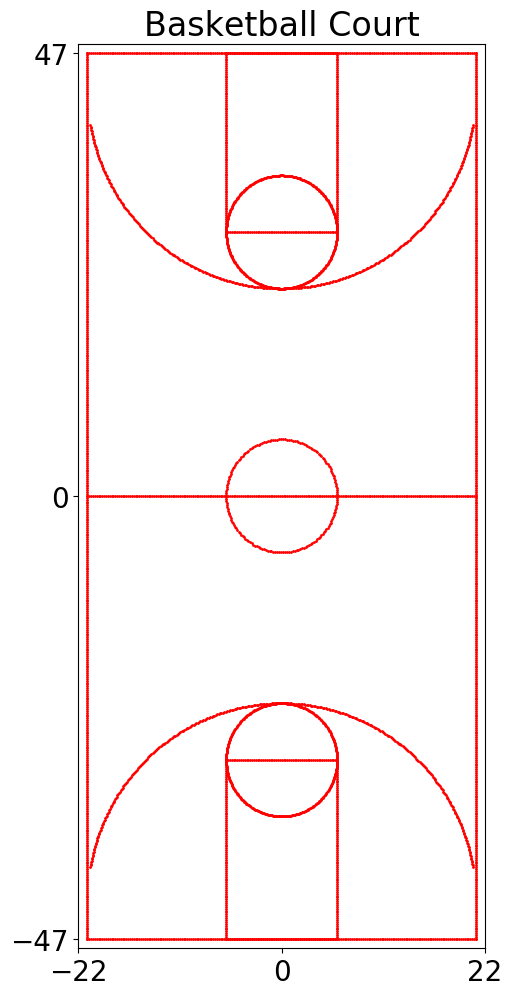
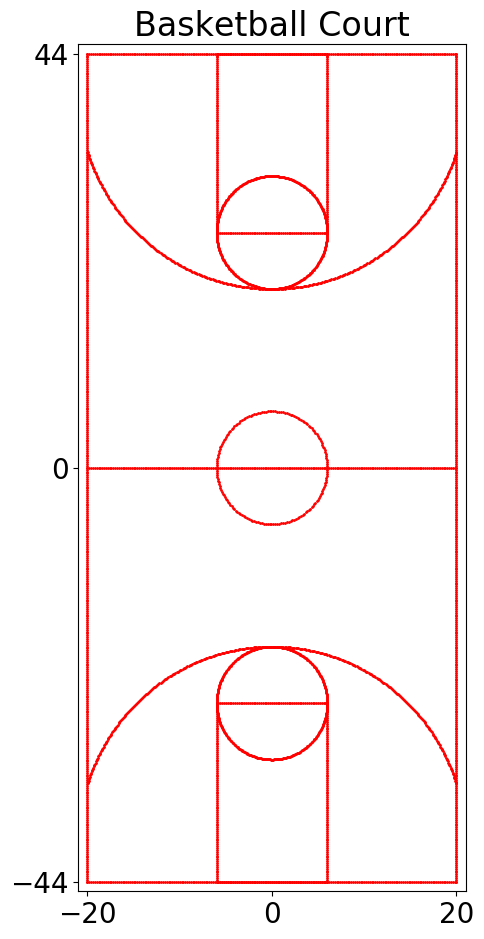
object_track_cv.py in progress

Changed region(s): [[0.031, 0.0, 0.9917, 0.9883]]

diff --git a/src/object_track_cv.py b/src/object_track_cv.py
@@ -1,0 +1,147 @@
+# Citation: https://www.learnopencv.com/object-tracking-using-opencv-cpp-python/
+
+import numpy as np
+import cv2
+import sys
+ 
+(major_ver, minor_ver, subminor_ver) = cv2.__version__.split('.')
+ 
+def bbox_corners(bbox):
+    """Get the coordinates of a bounding box"""
+    p1 = (int(bbox[0]), int(bbox[1]))
+    p2 = (int(bbox[0] + bbox[2]), int(bbox[1] + bbox[3]))
+    return p1, p2
+
+
+#    def bbox_entries(bbox):
+#        """Get the four integer entries defining a bounding box"""
+#        return (int(bbox[0]), int(bbox[1]), int(bbox[2]), int(bbox[3]))
+
+if __name__ == '__main__' :
+ 
+    # Set up tracker.
+    # Instead of MIL, you can also use
+ 
+    tracker_types = ['BOOSTING', 'MIL','KCF', 'TLD', 'MEDIANFLOW', 'GOTURN', 'MOSSE', 'CSRT']
+    # tracker_type = tracker_types[2]
+    tracker_type = 'CSRT'
+    
+    print(f'Attempting object tracking with {tracker_type}...')
+ 
+    if int(minor_ver) < 3:
+        tracker = cv2.Tracker_create(tracker_type)
+    else:
+        if tracker_type == 'BOOSTING':
+            tracker = cv2.TrackerBoosting_create()
+        if tracker_type == 'MIL':
+            tracker = cv2.TrackerMIL_create()
+        if tracker_type == 'KCF':
+            tracker = cv2.TrackerKCF_create()
+        if tracker_type == 'TLD':
+            tracker = cv2.TrackerTLD_create()
+        if tracker_type == 'MEDIANFLOW':
+            tracker = cv2.TrackerMedianFlow_create()
+        if tracker_type == 'GOTURN':
+            tracker = cv2.TrackerGOTURN_create()
+        if tracker_type == 'MOSSE':
+            tracker = cv2.TrackerMOSSE_create()
+        if tracker_type == "CSRT":
+            tracker = cv2.TrackerCSRT_create()
+ 
+    # Read video
+    video = cv2.VideoCapture("../sync_video/Camera4_sync.mp4")
+ 
+    # Exit if video not opened.
+    if not video.isOpened():
+        print("Could not open video")
+        sys.exit()
+ 
+    # Read first frame.
+    ok, frame = video.read()
+    if not ok:
+        print('Cannot read video file')
+        sys.exit()
+     
+    # Table of interactive bounding boxes; key = frame number, value = bounding box
+    bbox_interactive = dict()
+        
+    # Interactively select a bounding box
+    bbox = cv2.selectROI(frame, False)
+    bbox_interactive[0] = bbox
+ 
+    # Initialize tracker with first frame and bounding box
+    ok = tracker.init(frame, bbox)
+ 
+    # Get the number of frames
+    property_id = int(cv2.CAP_PROP_FRAME_COUNT) 
+    frame_count: int = max(int(cv2.VideoCapture.get(video, property_id)), 3390)
+    
+    # Initialize array of bounding boxes
+    bbox_tbl = np.zeros((4391, 4), dtype=np.int16)
+    
+    # Save this box to the table
+    bbox_tbl[0, :] = np.array(bbox)
+    
+    # Count the frames
+    fn: int = 0
+    
+    while True:
+        # Read a new frame
+        ok, frame = video.read()
+        if not ok:
+            break         
+
+        # Increment frame count (just read a new frame)
+        fn += 1
+    
+        # Start timer
+        timer = cv2.getTickCount()
+ 
+        # Update tracker
+        ok, bbox = tracker.update(frame)
+ 
+        # Calculate Frames per second (FPS)
+        fps = cv2.getTickFrequency() / (cv2.getTickCount() - timer);
+ 
+        # Draw bounding box
+        if ok:
+            # Tracking success
+            p1, p2 = bbox_corners(bbox)
+            cv2.rectangle(frame, p1, p2, (255,0,0), 2, 1)            
+            # MSE
+            # Save this box to the table
+            bbox_tbl[fn, :] = np.array(bbox)
+            # Status update
+            print(f'frame={fn}, p1={p1}, p2={p2}')
+        else :
+            # Tracking failure
+            cv2.putText(frame, "Tracking failure detected", (100,80), cv2.FONT_HERSHEY_SIMPLEX, 0.75,(0,0,255),2)
+            if fn % 300 == 0:
+                # Ask if ball is present on the console
+                print(f'Tracking failed at frame {fn}.  Is the ball on the screen? (Y/N)')
+                ball_input = input()
+                ball_present: bool = (ball_input == 'y')
+                # If this frame is a multiple of one second, try to pick a new box interactively
+                if ball_present:
+                    # Pick a new box interactively
+                    bbox = cv2.selectROI(frame, False)
+                    # Save it to both the main and interactive tables
+                    bbox_tbl[fn, :] = np.array(bbox)
+                    bbox_interactive[fn] = bbox
+
+        # Display tracker type on frame
+        cv2.putText(frame, tracker_type + " Tracker", (100,20), cv2.FONT_HERSHEY_SIMPLEX, 0.75, (50,170,50),2);
+     
+        # Display FPS on frame
+        cv2.putText(frame, "FPS : " + str(int(fps)), (100,50), cv2.FONT_HERSHEY_SIMPLEX, 0.75, (50,170,50), 2);
+ 
+        # Display result
+        cv2.imshow("Tracking", frame)
+ 
+        # Exit if ESC pressed
+        k = cv2.waitKey(1) & 0xff
+        if k == 27 : break
+    
+    # Print final frame count to console
+    print(f'Total Frame Count: {fn}')
+    

diff --git a/src/foreground.py b/src/foreground.py
@@ -1,0 +1,95 @@
+"""
+Michael S. Emanuel
+Tue Dec 18 02:36:08 2018
+"""
+
+import os
+import re
+import numpy as np
+from skimage import io
+import matplotlib.pyplot as plt
+from IPython.display import display
+from image_background import load_frame
+from am205_utils import arange_inc
+from typing import List
+
+# *************************************************************************************************
+# Path for frames
+path_frames = r'../sync_frames'
+# Path for background frames
+path_frames_bg = r'../frames/Background'
+# Path for foreround frames
+path_frames_fg = r'../foreground'
+
+# Pixel count in the image
+pixel_w: int = 1920
+pixel_h: int = 1080
+# Half size of pixels used frequently
+pixel_hw: int = pixel_w // 2
+pixel_hh: int = pixel_h // 2
+
+# Default size for figures to match frames
+figsize=[16.0, 9.0]
+
+
+def plot_frame(frame):
+    """Plot a frame in preparation to annotate it"""
+    # Create axes
+    fig, ax = plt.subplots(figsize=figsize)
+    ax.set_xlim(0, 1920)
+    ax.set_ylim(1080, 0)
+    ax.set_xticks(arange_inc(0, 1920, 120))
+    ax.set_yticks(arange_inc(0, 1080, 120))
+    ax.set_xticklabels(arange_inc(0, 192, 12))
+    ax.set_yticklabels(arange_inc(0, 108, 12))   
+    # Display the image
+    ax.imshow(frame)
+    # Return the figure and axes
+    return fig, ax
+
+
+def frame_names(path_frames: str, camera_name: str) -> List[str]:
+    """Return a list of file names for frames in this directory"""
+    # Path with frames for this camera
+    path: str = f'{path_frames}/{camera_name}'
+    # Files in this path; frames are named e.g. 'Camera1_Frame01234.png'
+    fnames: List[str] = os.listdir(path)
+    # Filter the list of frames to only those matching the pattern
+    pattern: re.Pattern = re.compile(f'^{camera_name}_SyncFrame'+'(\d{5}).png$')
+    # Return list of all file names matching this pattern
+    return [fname for fname in fnames if pattern.match(fname) is not None]
+
+
+camera_name = 'Camera3'
+
+def save_fg(camera_name: str):
+    frame_bg = load_frame(f'{path_frames_bg}', 'Camera3_median.png')
+    
+    # Find all the frames in this directory
+    fnames: List[str] = frame_names(path_frames, camera_name)
+    # Path with frames for this camera
+    path: str = f'{path_frames}/{camera_name}'
+    # Path for foreground frames
+    path_fg: str = f'{path_frames_fg}/{camera_name}'
+    
+    # Iterate over the frames for this camera
+    for i, fname in enumerate(fnames[0:10]):
+        # Load this frame
+        frame = load_frame(path, fname)
+        # Compute the foreground of the frame
+        frame_fg = frame - frame_bg
+        # Name of the foreground frame
+        fname_fg = f'{path_fg}/{camera_name}_Foreground{i:05d}.png'
+        # Save the foreground
+        io.imsave(fname_fg, frame_fg)
+    
+    # Alternate version with white background
+#        xxx = np.sum(frame_fg * frame_fg, axis=2)
+#        mask = xxx < 0.02
+#        frame_fgw = frame_fg.copy()
+#        frame_fgw[mask] = 1.0
+    
+
+#    fig = plot_frame(frame - frame_bg)
+#    display(fig)
+#    plt.close(fig)

diff --git a/src/basketball_court.py b/src/basketball_court.py
@@ -18,6 +18,7 @@ import numpy as np
 from numpy import pi
 import matplotlib as mpl
 import matplotlib.pyplot as plt
+from IPython.display import display
 from typing import List
 
 # *************************************************************************************************
@@ -32,8 +33,9 @@ mpl.rcParams.update({'font.size': 20})
 
 # Input constants pertaining to the court
 # The width and height of the court in feet
-court_w: float = 42.0
-court_h: float = 94.0
+# Note: these are the dimensions of the MAC at Harvard, which are HIGHLY NONSTANDARD!
+court_w: float = 40.0
+court_h: float = 88.0
 # The width of the key (rectangle in front of the basket, a.k.a. "restricted area" on Wikipedia diagram)
 key_w: float = 12.0
 key_h: float = 19.0
@@ -168,7 +170,7 @@ def make_court_lines():
     # vertical_to_basket = np.array([0.0, 0.0, basket_h])
     
     # The three-point arc
-    theta = np.pi * (20/360)
+    theta = np.pi * (36/360)
     three_point_N = make_arc(basket_xy_N, 21.0, -np.pi + theta, -theta, 360)
     three_point_S = make_arc(basket_xy_S, 21.0, theta, pi - theta, 360)
     
@@ -275,8 +277,8 @@ def visualize_court(lines):
     ax.set_title('Basketball Court')
     ax.set_xlim(-court_hw-1, court_hw+1)
     ax.set_ylim(-court_hh-1, court_hh+1)
-    ax.set_xticks([-22, 0, 22])
-    ax.set_yticks([-47, 0, 47])
+    ax.set_xticks([-20, 0, 20])
+    ax.set_yticks([-44, 0, 44])
     linewidth=0
     marker='o'
     markersize=1.0
@@ -303,7 +305,9 @@ def visualize_court(lines):
             linewidth=linewidth, marker=marker, markersize=markersize)
     
     # Save the figure
+    display(fig)
     fig.savefig('../report/figs/court_lines.png', bbox_inches='tight')
+    plt.close(fig)
 
 # *************************************************************************************************
 # main

diff --git a/report/Basketball Motion Capture.tex b/report/Basketball Motion Capture.tex
@@ -553,7 +553,19 @@ When we started the project, we had hoped we could automate this process, but do
 processing to extract the pixels corresponding to the landmarks has been too labor intensive for us
 to automate this calculation in the available time.  
 Automating the calibration is one of our top areas where we would like to improve in the future
-if we continued working on this problem.
+if we continued working on this problem.  
+Automating the camera calibration could be a good fit for machine learning or neural network techniques.
+
+These calculations are carried out in the Python file \texttt{camera\_calibration.py}.
+The function \texttt{plot\_frame} creates a plot of a frame with suitable axes in preparation 
+for annotation with pixels at visual landmarks.
+Two utility functions \texttt{annotate\_frame\_line} and \texttt{annotate\_frame\_dots}
+overlay red lines on the images where the landmarks are estimated to be.
+The lines produce better looking charts, but plotting the perimeter can cause artificial 
+lines to appear when matplotlib tries to connect pixel locations that are far off the screen together.
+All calibrations are performed against the median frame so we have a clean image without
+any obstructions for the calibration.
+Each camera has its own calibration function, e.g. \texttt{calibrate\_cam3}.
 
 
 \end{document}

diff --git a/src/camera_calibration.py b/src/camera_calibration.py
@@ -123,7 +123,7 @@ def calibrate_cam2():
     annotate_frame_line(ax, rim_uv, 'r')
     # Display and save the figure    
     display(fig)
-    fig.savefig('../figs/{camera_name}_calibration.png')
+    fig.savefig('../figs/{camera_name}_calibration.png', bbox_inches='tight')
     plt.close(fig)
 
 
@@ -133,7 +133,8 @@ def calibrate_cam3():
     camera_name = 'Camera3'
     
     # Position of camera (adjusted for height of tripod)
-    cam_pos = np.array([22.0, -1.5, 5.2])
+    # cam_pos = np.array([22.0, -1.5, 5.2])
+    cam_pos = np.array([22.0, 0.0, 5.2])
     # Camera 3 is ROUGHLY pointed towards a point 2 feet below the front of the rim
     cam_point = np.array([0.0, 41.0, 8.0])
     # Transform for camera 3 (to pixel space)
@@ -207,4 +208,4 @@ def calibrate_cam7():
 # Run the calibration
 # calibrate_cam2()
 calibrate_cam3()
-calibrate_cam7()
+# calibrate_cam7()
